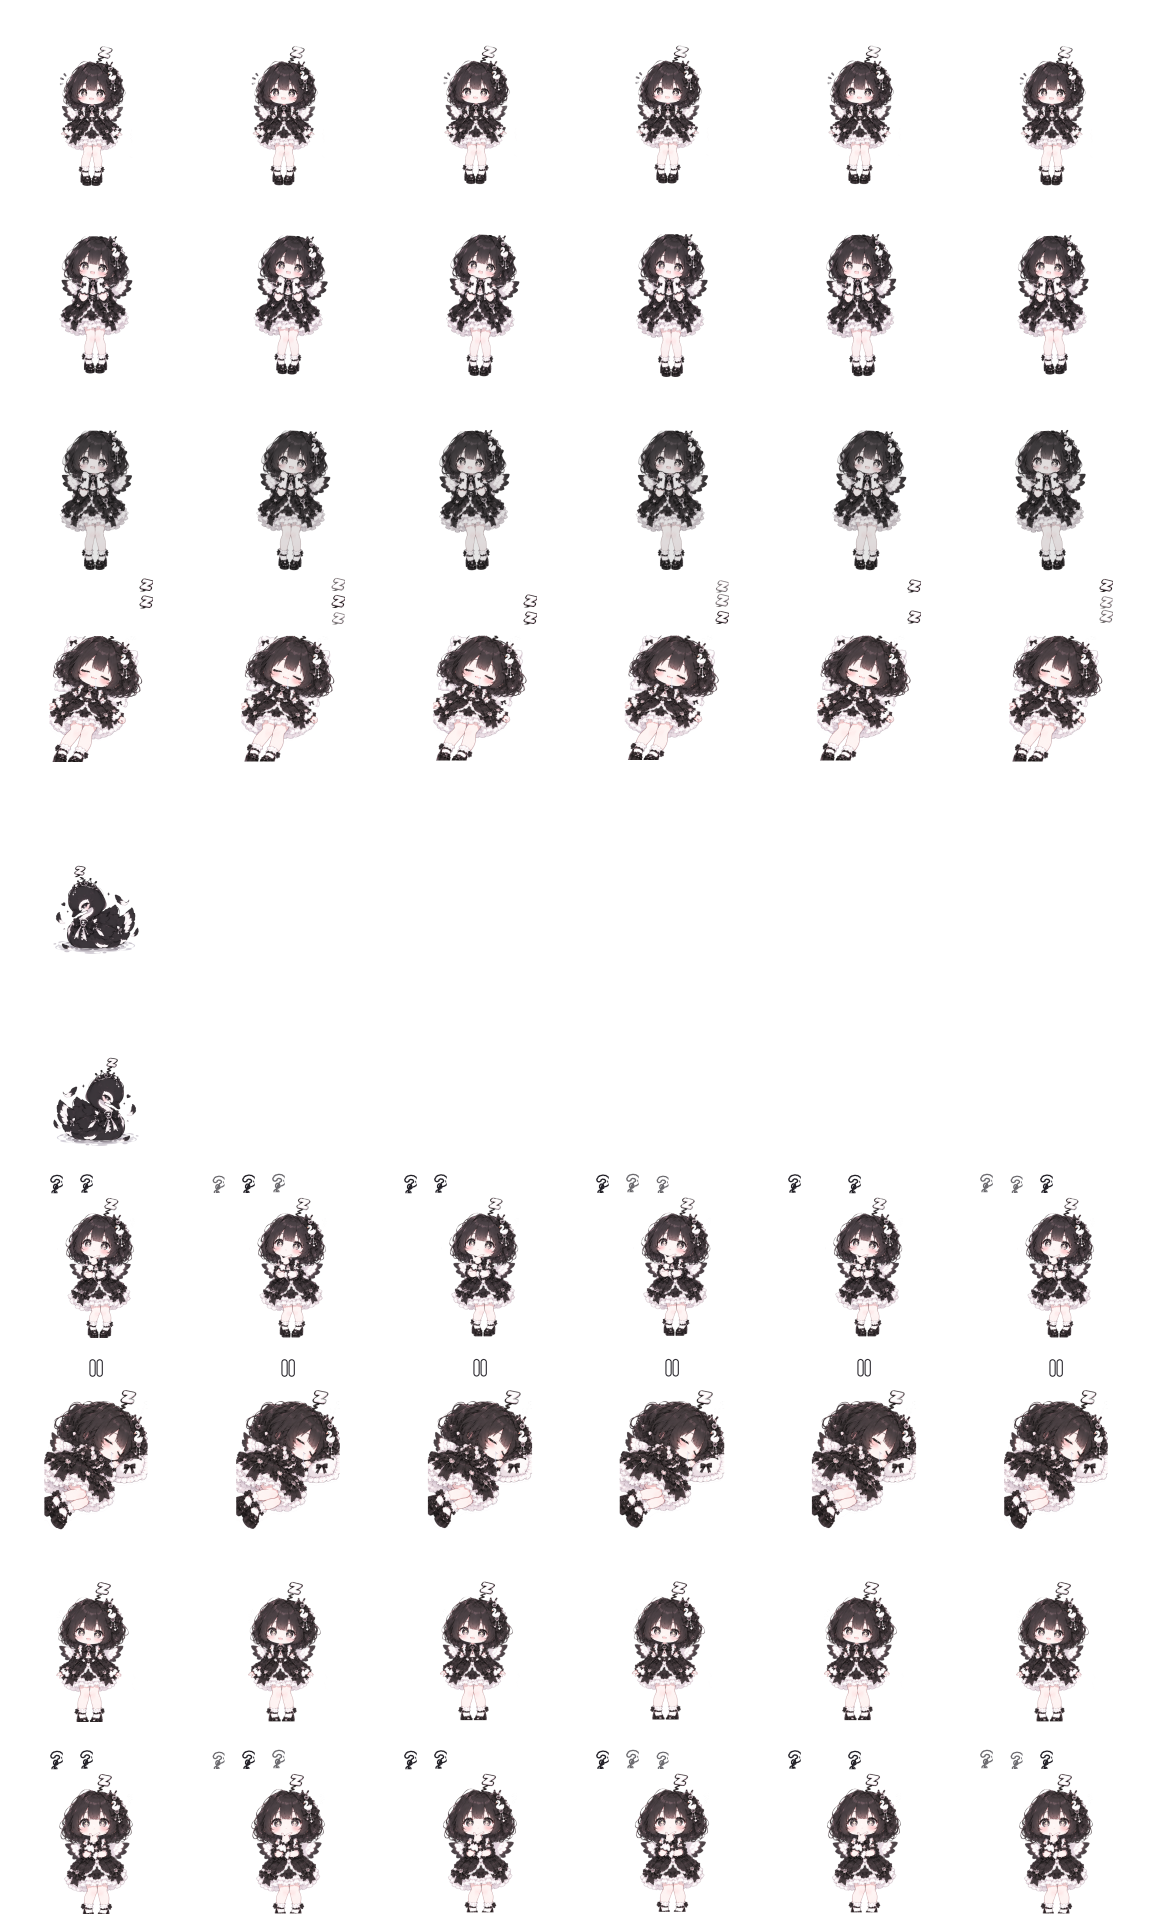
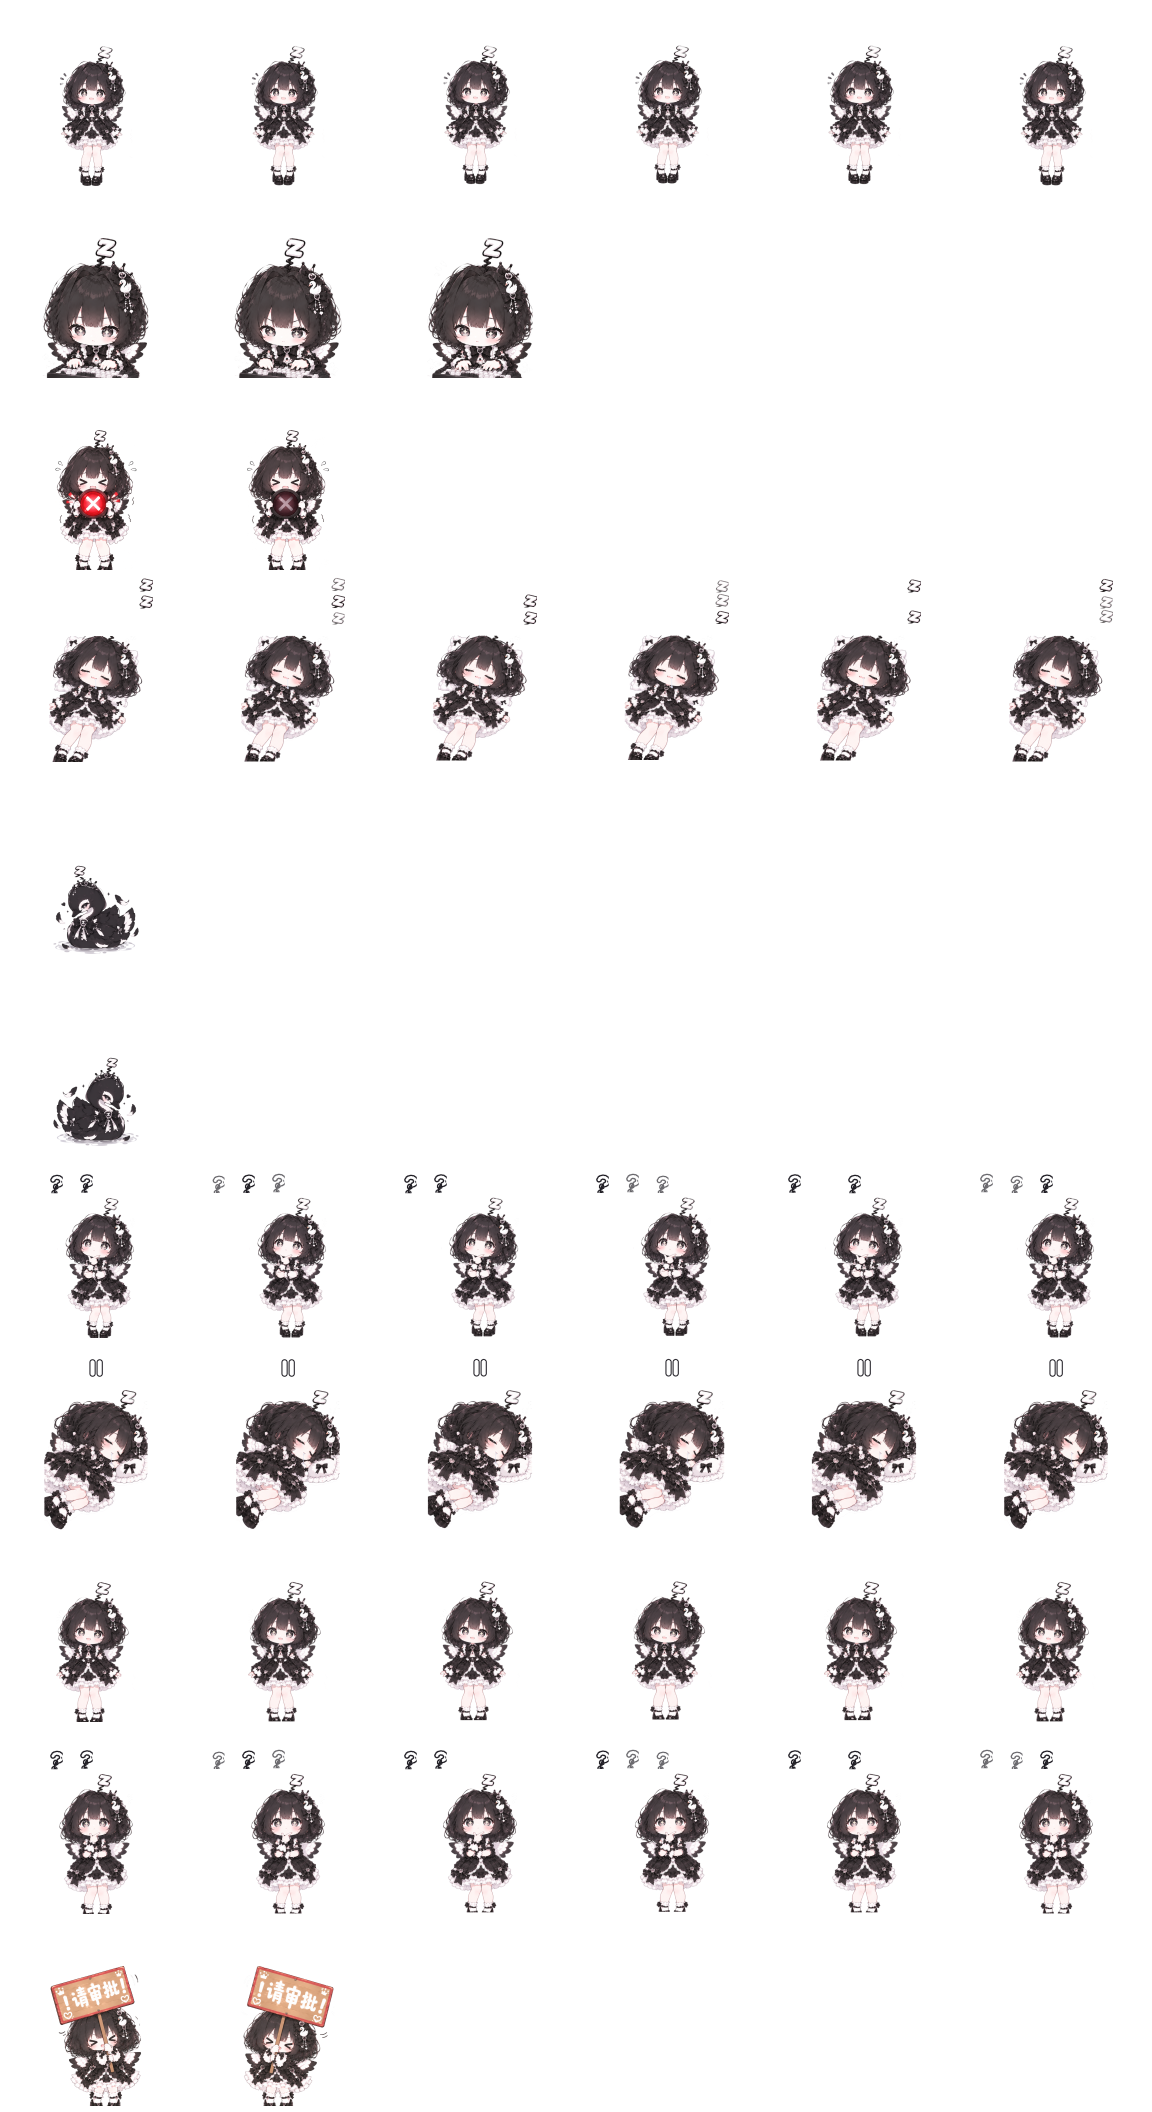
feat: 补齐干活/出错/审批三个状态的新姿势（敲键盘 / 红灯闪烁 / 摇牌）
用户给了三张新图，正好补上之前"未指定"的三个状态 —— 夜羽现在全部用同一批新画风，
旧的 yoru.png 立绘不再被构建器使用。

- working（干活中）：3 张敲键盘姿势循环 → 手指敲键盘动效（fps 8，375ms 一轮）
- error（出错了）：举红叉按钮，红灯亮/暗两张交替 → 0.5 秒一闪（fps 2）
- permission（等你审批）：举"！请审批！"牌子，左倾/右倾两张交替 → 0.5 秒换边（fps 2）
  注意：permission 之前复用 working 行，现在独立成 row 10
- 图集 6 列 × 11 行（1152×2112，782 KB）；新源图入库 yoru-err.png / yoru-type.png / yoru-perm.png

构建器改动：
- sheetPoses 支持 2~3 个姿势（原先写死 3 个）；分区策略改为**优先按深色本体**，
  底部道具粘连时（敲键盘那张三个键盘连成一片，只检出 1 个本体）自动退回
  "顶部头部区域列剖面"分区 → 实测 4 张姿势图 3+3+2+3、err 2、type 3、perm 2 全部正确；
- 删掉旧立绘（yoru.png）那段 working/error 生成逻辑与相关 import（rowCounts / findOrnamentSplit）。

校验：11 行结构正确、每行帧数内容齐（working 3/3、error 2/2、permission 2/2，其余 6/6 或 1/1）。

diff --git a/AGENTS.md b/AGENTS.md
@@ -131,8 +131,9 @@ ZCode Agent
   宠物包没有这些键时自动降级为普通状态动画；
 - **气泡（Z / ? / 暂停）烘焙进精灵图帧**：队列语义（最多 N 个、依次出现、最早的先消失、
   上下或并排排列）都在构建期合成，运行时不额外绘制 → 应用代码零改动；
-- 夜羽当前是 **6 列 × 10 行**（`idle/working/error/sleep/drag_left/drag_right/thinking/paused/idle_alt/thinking_alt`），
-  图集 1152×1920；working/permission/error 仍用旧立绘（用户未指定这三个状态的新姿势）；
+- 夜羽当前是 **6 列 × 11 行**（`idle/working/error/sleep/drag_left/drag_right/thinking/paused/idle_alt/thinking_alt/permission`），
+  图集 1152×2112：`working` 3 张敲键盘姿势循环（fps 8 ≈ 125ms/张）、`error` 红灯亮/暗 2 帧（fps 2 = 500ms 一闪）、
+  `permission` 举牌左倾/右倾 2 帧（fps 2 = 500ms 换边）；三者都是**整张姿势轮换**，不需要局部动效；
 - 思考行**没有**手部动效（曾做过"手部左右微动 ±1.8px"，按用户要求已关闭；
   实现保留在提交 `c8cb2f3` 里，需要时取回：把姿势按手部矩形拆成 body + hand 两层，
   hand 做横向位移，body 的空洞用上下边缘插值补掉 —— 注意矩形**只许框手、不能碰下巴**）；

diff --git a/CHANGELOG.md b/CHANGELOG.md
@@ -7,8 +7,11 @@
 
 ### 新增
 
-- **多姿势状态动画 + 气泡系统**（新构建器 `app/tools/gen_yoru_atlas.mjs`，图集 6 列 × 10 行）：
+- **多姿势状态动画 + 气泡系统**（新构建器 `app/tools/gen_yoru_atlas.mjs`，图集 6 列 × 11 行）：
   - **待机**：两张站姿（`idle` / `idle_alt`）**每 30 秒换一张**，各自带呼吸；
+  - **干活中**：3 张敲键盘姿势循环 → **手指敲键盘的动效**（fps 8，一轮 375ms）；
+  - **出错了**：举红叉按钮，红灯**亮/暗 0.5 秒一闪**（2 帧 fps 2）；
+  - **等你审批**：举"！请审批！"牌子，**左右摇晃、0.5 秒换边**（2 帧 fps 2）；
   - **睡觉**：躺卧姿势 + 头顶 **Z 气泡**（最多 3 个、上下排列、依次出现，第 4 个出现时最早的消失）；
   - **思考中**：两张思考姿势（`thinking` / `thinking_alt`）每 30 秒换，头旁 **"?" 气泡**
     （最多 3 个、并排排列、同样的队列规则）；
